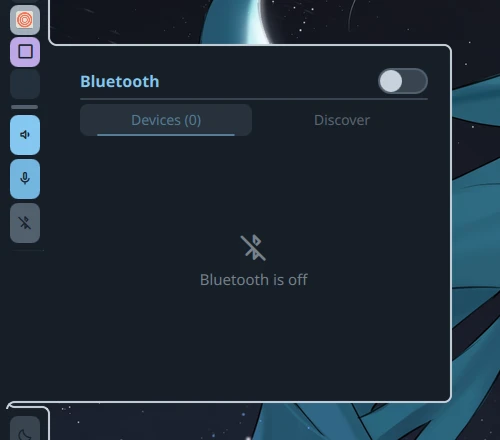
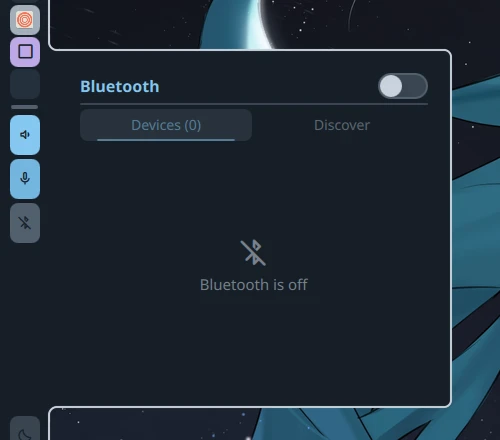
Bug fix and photo of fixed module

diff --git a/components/hosts/popout/BarPopouts.qml b/components/hosts/popout/BarPopouts.qml
@@ -126,6 +126,27 @@ PopoutWrapperBase {
   readonly property real pillFoot: root.barConfig.pillDepth - Appearance.borderWidth
   readonly property real startFoot: mergeWithPill && !mainPopup.joinStart && root.pills.some(p => p.start <= mainPopup.boxStart - Appearance.borderRadius && p.start + p.length >= mainPopup.boxStart) ? pillFoot : 0
   readonly property real endFoot: mergeWithPill && !mainPopup.joinEnd && root.pills.some(p => p.start <= mainPopup.boxEnd && p.start + p.length >= mainPopup.boxEnd + Appearance.borderRadius) ? pillFoot : 0
+  // A merged box whose side wall falls just short of another pill's stroke
+  // would draw its wall and fillet a few pixels off that stroke, a double
+  // line with a sliver of wallpaper between. How far to shift a box at
+  // `start` (at most a connector gap) so the wall lies on the stroke and
+  // stands on the pill (see startFoot/endFoot); 0 when none is that close.
+  function pillSnap(start) {
+    const own = root.anchorPill;
+    const end = start + mainPopup.boxLength;
+    if (own === null || (start >= own.start && end <= own.start + own.length))
+      return 0;
+    const bw = Appearance.borderWidth, r = Appearance.borderRadius;
+    for (const p of root.pills) {
+      const toEnd = p.start + bw - end;
+      if (toEnd > 0 && toEnd <= root.connectorGap && p.start + p.length >= end + toEnd + r)
+        return toEnd;
+      const toStart = start - (p.start + p.length - bw);
+      if (toStart > 0 && toStart <= root.connectorGap && p.start <= start - toStart - r)
+        return -toStart;
+    }
+    return 0;
+  }
   // An unmerged popout stands on its pill's far stroke. When its box sits
   // just inside the pill's end, its fillet would run past the straight
   // part of that stroke, so the pill is stretched (for as long as the
@@ -244,7 +265,9 @@ PopoutWrapperBase {
         return strokeStart;
       if (joinEnd)
         return strokeEnd - boxLength;
-      return Math.max(minAlong + filletMargin, Math.min(alignedBoxStart, maxAlong - filletMargin - boxLength));
+      const lo = minAlong + filletMargin, hi = maxAlong - filletMargin - boxLength;
+      const clamped = Math.max(lo, Math.min(alignedBoxStart, hi));
+      return Math.max(lo, Math.min(clamped + root.pillSnap(clamped), hi));
     }
     readonly property real boxEnd: boxStart + boxLength
     // Where the popup (the surface) starts along the bar
